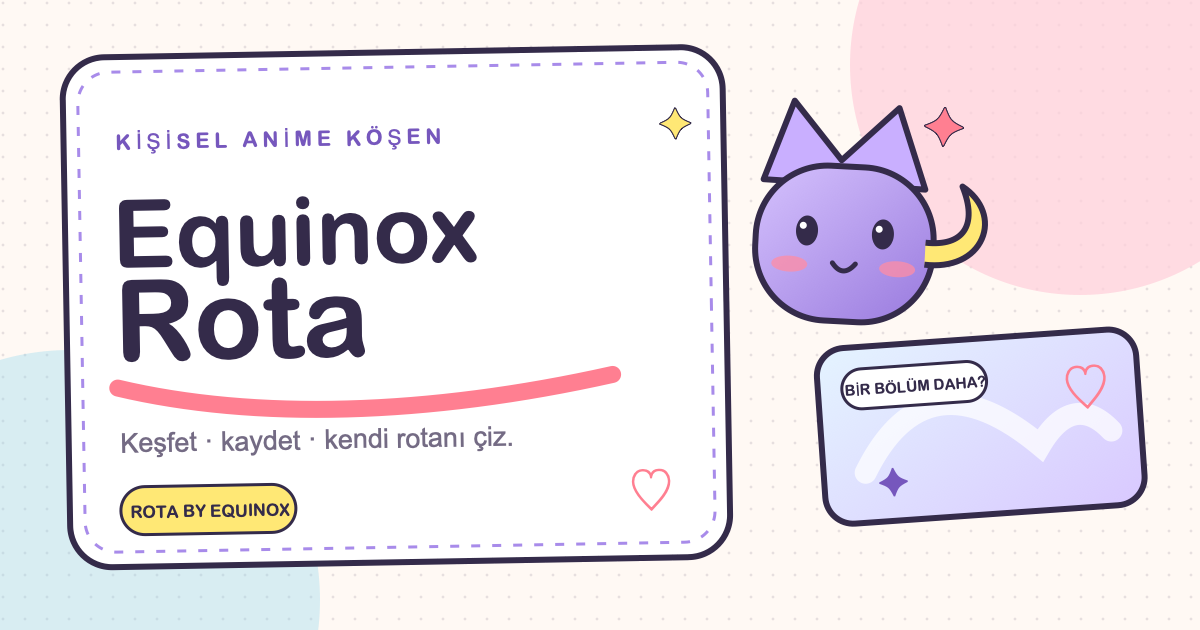
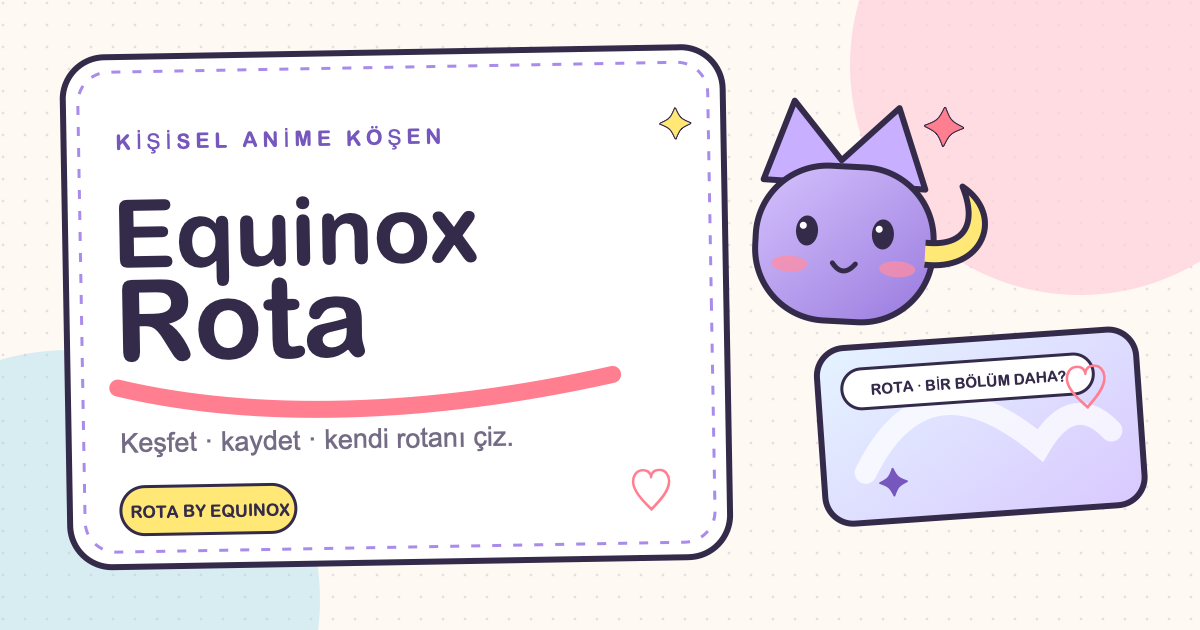
fix: unify Rota companion brand system

Changed region(s): [[0.7092, 0.5429, 0.925, 0.6635]]

diff --git a/src/styles/design-otaku.css b/src/styles/design-otaku.css
@@ -124,8 +124,14 @@ body.design-otaku .site-header {
   box-shadow: 0 8px 28px rgba(83, 65, 111, .06);
 }
 body.design-otaku .brand { position: relative; }
-body.design-otaku .brand svg { color: var(--lavender-deep); stroke-width: 2; }
-body.design-otaku .brand svg circle:last-child { fill: var(--coral); }
+body.design-otaku .brand .rota-mark { width: 43px; height: 43px; overflow: visible; }
+body.design-otaku .brand .rota-mark__tile { fill: var(--paper); stroke: var(--ink); stroke-width: 3px; }
+body.design-otaku .brand .rota-mark__ears { fill: #b79bf2; stroke: var(--ink); stroke-width: 2.5px; stroke-linejoin: round; }
+body.design-otaku .brand .rota-mark__face { fill: #a88bea; stroke: var(--ink); stroke-width: 2.5px; }
+body.design-otaku .brand .rota-mark__eye { fill: var(--ink); stroke: none; }
+body.design-otaku .brand .rota-mark__mouth { fill: none; stroke: var(--ink); stroke-width: 2px; stroke-linecap: round; }
+body.design-otaku .brand .rota-mark__star { fill: var(--sun); stroke: var(--ink); stroke-width: 2px; stroke-linejoin: round; }
+body.design-otaku .brand .rota-mark__blush { fill: var(--coral); stroke: none; opacity: .72; }
 body.design-otaku .brand > span {
   color: var(--ink);
   font-family: var(--display);
@@ -133,7 +139,6 @@ body.design-otaku .brand > span {
   letter-spacing: -.04em;
 }
 body.design-otaku .brand small { color: var(--lavender-deep); letter-spacing: .16em; }
-.brand__spark { margin: -23px 0 0 -5px; color: var(--coral); font-size: 10px; font-style: normal; animation: rota-twinkle 2.4s ease-in-out infinite; }
 body.design-otaku .site-header .desktop-nav {
   border: 1px solid var(--line);
   background: rgba(255, 255, 255, .74);
@@ -259,13 +264,16 @@ body.design-otaku .airing i { background: var(--mint); box-shadow: 0 0 0 4px rgb
 body.design-otaku .feature-score { color: var(--ink); background: var(--sun); border-radius: 999px; }
 body.design-otaku .home-hero .feature-score { margin-right: 54px; }
 
-/* Rota's original celestial companion */
-.rota-companion { position: absolute; z-index: 12; width: 126px; display: flex; flex-direction: column; align-items: center; filter: drop-shadow(0 10px 18px rgba(73,52,105,.14)); animation: rota-float 3.4s ease-in-out infinite; }
-.rota-companion__bubble { position: relative; z-index: 4; margin-bottom: 10px; padding: 8px 11px; border: 2px solid var(--ink); border-radius: 14px 14px 14px 5px; color: var(--ink); background: #fff; box-shadow: 3px 3px 0 var(--ink); font-size: 8px; font-weight: 900; white-space: nowrap; }
+/* Rota — Equinox Rota's celestial guide and brand face */
+.rota-companion { position: absolute; z-index: 12; width: 172px; display: flex; flex-direction: column; align-items: center; }
+.rota-companion__bubble { position: relative; z-index: 4; width: max-content; max-width: 178px; margin-bottom: 12px; padding: 9px 12px 10px; display: flex; flex-direction: column; gap: 2px; border: 2px solid var(--ink); border-radius: 16px 16px 16px 5px; color: var(--ink); background: #fff; box-shadow: 3px 3px 0 var(--ink); font-family: var(--sans); font-size: 12px; font-weight: 800; line-height: 1.32; letter-spacing: 0; text-align: left; white-space: normal; text-rendering: optimizeLegibility; -webkit-font-smoothing: antialiased; }
+.rota-companion__bubble strong { color: var(--lavender-deep); font-size: 9px; font-weight: 950; line-height: 1; letter-spacing: .12em; text-transform: uppercase; }
+.rota-companion__bubble span { display: block; }
 .rota-companion__bubble::after { content: ""; position: absolute; left: 15px; bottom: -8px; width: 12px; height: 12px; border-right: 2px solid var(--ink); border-bottom: 2px solid var(--ink); background: #fff; transform: rotate(45deg); }
-.rota-companion__body { position: relative; width: 76px; height: 64px; display: block; border: 2px solid var(--ink); border-radius: 48% 48% 42% 42%; background: linear-gradient(145deg,#c9afff,#9575dc); box-shadow: 4px 5px 0 var(--ink); }
+.rota-companion__body { position: relative; width: 76px; height: 64px; display: block; border: 2px solid var(--ink); border-radius: 48% 48% 42% 42%; background: linear-gradient(145deg,#c9afff,#9575dc); box-shadow: 4px 5px 0 var(--ink), 0 13px 20px rgba(73,52,105,.14); animation: rota-float 3.4s ease-in-out infinite; }
 .rota-companion__body::before { content: ""; position: absolute; z-index: -1; top: -21px; left: 4px; width: 64px; height: 34px; background: linear-gradient(135deg,#d8c5ff,#9b7ae1); clip-path: polygon(0 100%,14% 0,38% 76%,62% 76%,86% 0,100% 100%); }
 .rota-companion__body::after { content: ""; position: absolute; right: -20px; bottom: 2px; width: 31px; height: 31px; border: 8px solid var(--sun); border-top-color: transparent; border-left-color: transparent; border-radius: 50%; transform: rotate(-20deg); }
+.rota-companion__crest { position: absolute; z-index: 1; top: 4px; left: 34px; color: var(--sun); font-size: 9px; font-style: normal; text-shadow: 1px 1px 0 rgba(52,43,74,.45); }
 .rota-companion__eyes { position: absolute; top: 23px; left: 19px; width: 7px; height: 10px; border-radius: 50%; background: var(--ink); box-shadow: 29px 0 0 var(--ink); }
 .rota-companion__eyes::after { content: ""; position: absolute; top: 1px; left: 2px; width: 2px; height: 3px; border-radius: 50%; background: #fff; box-shadow: 29px 0 0 #fff; }
 .rota-companion__blush { position: absolute; top: 37px; left: 11px; width: 13px; height: 6px; border-radius: 50%; background: rgba(255,140,164,.66); box-shadow: 40px 0 0 rgba(255,140,164,.66); }
@@ -274,11 +282,11 @@ body.design-otaku .home-hero .feature-score { margin-right: 54px; }
 .rota-companion__body em { position: absolute; z-index: 2; font-style: normal; font-weight: 950; }
 .rota-companion--sleepy .rota-companion__eyes { height: 5px; border-bottom: 2px solid var(--ink); border-radius: 50%; background: transparent; box-shadow: 29px 0 0 -1px transparent; }
 .rota-companion--sleepy .rota-companion__eyes::after { width: 7px; height: 5px; border-bottom: 2px solid var(--ink); border-radius: 50%; background: transparent; box-shadow: 29px 0 0 -1px transparent; }
-.rota-companion--syncing .rota-companion__body { background: linear-gradient(145deg,#c8f3ff,#78c8e6); }
+.rota-companion--syncing .rota-companion__body { box-shadow: 4px 5px 0 var(--ink), 0 0 0 6px rgba(120,200,230,.2), 0 13px 20px rgba(73,52,105,.14); }
 .rota-companion__orbit { inset: -13px -15px -12px -15px; display: grid; place-items: end center; border: 2px dashed var(--lavender-deep); border-radius: 50%; color: var(--lavender-deep); font-size: 13px; animation: rota-orbit 1.05s linear infinite; }
-.rota-companion--celebrating .rota-companion__body { background: linear-gradient(145deg,#ffe8a1,#f5b764); animation: rota-companion-party .48s ease-in-out alternate infinite; }
+.rota-companion--celebrating .rota-companion__body { animation: rota-companion-party .48s ease-in-out alternate infinite; }
 .rota-companion__confetti { top: -25px; left: -17px; width: 110px; color: var(--coral); font-size: 17px; letter-spacing: .34em; transform: rotate(-7deg); animation: rota-confetti .62s ease-in-out alternate infinite; }
-.rota-companion--error .rota-companion__body { background: linear-gradient(145deg,#ffd7df,#e98da4); }
+.rota-companion--error .rota-companion__body { box-shadow: 4px 5px 0 var(--ink), 0 0 0 6px rgba(233,141,164,.18), 0 13px 20px rgba(73,52,105,.14); }
 .rota-companion--error .rota-companion__eyes { height: 2px; border-radius: 0; transform: rotate(9deg); }
 .rota-companion--error .rota-companion__eyes::after { display: none; }
 .rota-companion--error .rota-companion__mouth { width: 12px; height: 6px; border: 2px solid var(--ink); border-bottom: 0; border-radius: 9px 9px 0 0; transform: rotate(0); }
@@ -506,7 +514,7 @@ body.design-otaku .detail-art-wrap .detail-art {
 .detail-tape--top { top: -7px; right: 36px; transform: rotate(8deg); }
 .detail-tape--bottom { left: -9px; bottom: 21px; transform: rotate(-43deg); }
 .detail-sfx { position: absolute; z-index: 7; right: -38px; bottom: 72px; color: var(--coral); font-family: var(--display); font-size: 32px; font-style: normal; font-weight: 950; letter-spacing: -.06em; text-shadow: 2px 2px 0 #fff; transform: rotate(-9deg); }
-.rota-companion--detail { right: -77px; top: 74px; transform: scale(.9) rotate(7deg); }
+.rota-companion--detail { right: -77px; top: 74px; transform: rotate(7deg); }
 .detail-chapter { width: fit-content; margin-bottom: 18px; display: flex; align-items: stretch; border: 2px solid var(--ink); background: #fff; box-shadow: 4px 4px 0 var(--ink); transform: rotate(-.7deg); }
 .detail-chapter > * { min-height: 34px; padding: 0 10px; display: grid; place-items: center; font-style: normal; }
 .detail-chapter span { color: #fff; background: var(--lavender-deep); font-size: 7px; font-weight: 950; letter-spacing: .13em; }
@@ -566,11 +574,11 @@ body.design-otaku .list-shelf .my-list-card:nth-child(even) { transform: rotate(
 body.design-otaku .my-list-card.is-celebrating { z-index: 3; border-color: var(--lavender-deep); box-shadow: 7px 7px 0 var(--sun); animation: rota-card-celebrate .48s ease both; }
 .completion-burst { position: absolute; z-index: 20; inset: -14px -11px auto auto; min-width: 126px; padding: 11px 12px; display: flex; align-items: center; justify-content: center; gap: 5px; border: 2px solid var(--ink); color: var(--ink); background: var(--sun); box-shadow: 4px 4px 0 var(--ink); font-size: 8px; transform: rotate(4deg); animation: rota-burst .42s cubic-bezier(.2,.8,.2,1.2) both; }
 .completion-burst span, .completion-burst i { color: var(--coral); font-size: 17px; font-style: normal; }
-.rota-companion--celebration { top: -105px; right: 112px; transform: scale(.72) rotate(-5deg); animation-duration: 1.3s; }
+.rota-companion--celebration { top: -117px; right: 92px; transform: rotate(-5deg); }
 .rota-companion--celebration .rota-companion__bubble { background: #fff9dc; }
 .rota-companion--celebration .rota-companion__bubble::after { background: #fff9dc; }
 .companion-state, body.design-otaku .my-list-empty { position: relative; }
-.rota-companion--state { top: 50%; right: 11%; transform: translateY(-45%) rotate(5deg) scale(.82); }
+.rota-companion--state { top: 50%; right: 9%; transform: translateY(-45%) rotate(5deg); }
 .rota-companion--empty { top: 44px; right: 11%; transform: rotate(5deg); }
 
 @keyframes rota-card-celebrate { 0% { transform: scale(.97) rotate(-.6deg); } 60% { transform: scale(1.018) rotate(.4deg); } 100% { transform: scale(1); } }
@@ -596,9 +604,9 @@ body.design-otaku .account-hero::before { content: "♡"; position: absolute; ri
   box-shadow: 6px 6px 0 rgba(52,43,74,.15);
 }
 .account-profile-card { position: relative; background: linear-gradient(135deg, #fff 0 72%, #f1e8ff 72%); }
-.account-dashboard--signed-in .account-profile-card { padding-right: 145px; }
-.rota-companion--account-sync { top: 35px; right: 12px; transform: scale(.72) rotate(4deg); }
-.rota-companion--account-sync .rota-companion__bubble { max-width: 132px; white-space: normal; text-align: center; }
+.account-dashboard--signed-in .account-profile-card { padding-right: 188px; }
+.rota-companion--account-sync { top: 29px; right: 7px; transform: rotate(4deg); }
+.rota-companion--account-sync .rota-companion__bubble { max-width: 164px; text-align: center; }
 .account-card__topline { margin-bottom: 32px; display: flex; align-items: center; justify-content: space-between; color: var(--lavender-deep); font-size: 8px; font-weight: 900; letter-spacing: .13em; }
 .account-card__topline b { color: var(--coral); font-size: 24px; }
 .account-profile-card h2 { max-width: 700px; margin: 0; font-family: var(--display); font-size: clamp(38px,4vw,58px); line-height: 1; letter-spacing: -.045em; }
@@ -669,7 +677,7 @@ body.design-otaku .site-footer__meta small { color: var(--muted); }
 @media (max-width: 760px) {
   body.design-otaku { padding-bottom: 76px; }
   body.design-otaku .site-header { background: rgba(255,249,244,.92); }
-  .brand__spark { display: none; }
+  body.design-otaku .brand .rota-mark { width: 38px; height: 38px; }
   body.design-otaku .mobile-nav {
     border: 2px solid var(--ink);
     background: rgba(255,255,255,.93);
@@ -681,7 +689,7 @@ body.design-otaku .site-footer__meta small { color: var(--muted); }
   body.design-otaku .home-hero .feature-card { box-shadow: 6px 7px 0 var(--sakura), 8px 9px 0 var(--ink); }
   .hero-sticker--top { right: -7px; }
   body.design-otaku .home-hero .feature-score { margin-right: 60px; }
-  .rota-companion--hero { left: auto; right: -10px; bottom: -27px; transform: scale(.82) rotate(5deg); }
+  .rota-companion--hero { left: auto; right: -20px; bottom: -35px; transform: rotate(5deg); }
   .rota-companion--catalogue { top: 2px; right: -17px; transform: scale(.72) rotate(5deg); }
   .rota-companion--catalogue .rota-companion__bubble { display: none; }
   .hero-doodle--heart { right: -7px; }
@@ -726,9 +734,9 @@ body.design-otaku .site-footer__meta small { color: var(--muted); }
   .account-settings-card,
   .account-shelf-card { padding: 23px 19px; border-radius: 18px; box-shadow: 4px 4px 0 rgba(52,43,74,.14); }
   .account-profile-card { background: #fff; }
-  .account-dashboard--signed-in .account-profile-card { padding-right: 19px; padding-top: 104px; }
-  .rota-companion--account-sync { top: 3px; right: 1px; transform: scale(.62) rotate(4deg); }
-  .rota-companion--account-sync .rota-companion__bubble { max-width: 118px; }
+  .account-dashboard--signed-in .account-profile-card { padding-right: 19px; padding-top: 148px; }
+  .rota-companion--account-sync { top: 12px; right: 2px; transform: rotate(3deg); }
+  .rota-companion--account-sync .rota-companion__bubble { max-width: 158px; }
   .account-profile-card h2 { font-size: 36px; }
   .account-benefits { margin-top: 22px; }
   .account-shelf-card { min-height: 340px; }
@@ -745,5 +753,5 @@ body.design-otaku .site-footer__meta small { color: var(--muted); }
 @media (prefers-reduced-motion: reduce) {
   ::view-transition-old(root), ::view-transition-new(root) { animation-duration: .01ms !important; }
   .page-transition-wink { display: none; }
-  .hero-sticker, .hero-doodle, .account-hero__badge, .rota-companion, .rota-companion__body, .rota-companion__body em, .brand__spark, .completion-burst, .my-list-card.is-celebrating { animation: none !important; }
+  .hero-sticker, .hero-doodle, .account-hero__badge, .rota-companion, .rota-companion__body, .rota-companion__body em, .completion-burst, .my-list-card.is-celebrating { animation: none !important; }
 }

diff --git a/src/components/RotaCompanion.tsx b/src/components/RotaCompanion.tsx
@@ -14,12 +14,16 @@ export default function RotaCompanion({
       className={`rota-companion rota-companion--${mood} ${className}`.trim()}
       aria-hidden="true"
     >
-      <span className="rota-companion__bubble">{message}</span>
+      <span className="rota-companion__bubble">
+        <strong>Rota</strong>
+        <span>{message}</span>
+      </span>
       <span className="rota-companion__body">
+        <i className="rota-companion__crest">✦</i>
         <i className="rota-companion__eyes" />
         <i className="rota-companion__blush" />
         <i className="rota-companion__mouth" />
-        <b>✦</b>
+        <b aria-hidden="true">✦</b>
         {mood === "syncing" && <em className="rota-companion__orbit">↻</em>}
         {mood === "celebrating" && <em className="rota-companion__confetti">✦♡✦</em>}
         {mood === "error" && <em className="rota-companion__bandage">×</em>}

diff --git a/docs/DESIGN_DIRECTION.md b/docs/DESIGN_DIRECTION.md
@@ -25,7 +25,7 @@ Tasarımın başarı testi şudur:
 - Kawaii seviyesi bilinçli biçimde yüksektir; sevimlilik yalnız küçük ikonlara değil kompozisyonun kendisine taşınır.
 - Klasik web sitesi kalıpları zorunlu değildir. Kontrollü asimetri, üst üste binen kartlar, manga efektleri, sticker katmanları ve alışılmadık bölüm geçişleri teşvik edilir.
 - Her ana ekranda kullanıcıya “bunu başka bir sitede görmedim” dedirtecek en az bir karakterli an bulunmalıdır.
-- Rota'nın özgün göksel yoldaşı arayüzde rehber ve duygu işareti olarak kullanılabilir; maskot işlevin veya anime içeriğinin önüne geçmez.
+- **Rota**, ürünün göksel yoldaşı ve marka yüzüdür. Arayüzde rehber ve duygu işareti olarak kullanılır; işlevin veya anime içeriğinin önüne geçmez.
 - Hareket kısa, neşeli ve amaçlıdır. `prefers-reduced-motion` her zaman korunur.
 - Yüksek ifade, düşük kullanılabilirlik bahanesi değildir: metin kontrastı, 44 piksel dokunma hedefleri ve hızlı tarama korunur.
 
@@ -111,8 +111,13 @@ Masaüstünde üst gezinme, mobilde sabit ve erişilebilir alt gezinme kullanıl
 
 ## Yaşayan Rota sistemi
 
+- Göksel yoldaşın adı **Rota**'dır. Kullanıcı kendi anime rotasını çizerken Rota ona eşlik eder; ürün adı, karakter ve anlatı bu ortak paydada buluşur.
+- Rota'nın lavanta gövdesi, taç-kulak silueti, güneş sarısı hilal kuyruğu, mürekkep konturu ve yıldız izi sabittir. Durumlar karakterin rengini veya anatomisini değiştirmez; yalnız mimik, hareket ve geçici aksesuar ekler.
+- Header işareti, favicon ve paylaşım kimliği Rota'nın aynı yüz anatomisinden türetilir. Yeni marka ikonları ayrı bir sembol icat etmez.
 - Göksel yoldaşın temel hâlleri `happy`, `curious`, `sleepy`, `syncing`, `celebrating` ve `error` olarak tanımlıdır.
 - Yoldaş; boş raf, yükleme, hata, hesap senkronizasyonu ve anime tamamlama anlarında bağlama göre tepki verir. Durum iletisini destekler, tek başına durumun tek göstergesi olmaz.
+- Konuşma balonu karakter animasyonundan bağımsız ve keskin kalır; gövdeyle birlikte ölçeklenmez. Balon metni mobil ve masaüstünde en az 12 piksel, yüksek kontrastlı ve kısa olmalıdır.
+- Rota kendini nadiren tanıtır; balondaki küçük `Rota` imzası konuşanın kimliğini kurar. Metin samimi Türkçedir, yapay “senpai/kawaii” diline kaçmaz.
 - Sayfa geçişleri kısa bir göksel manga işareti ve yumuşak içerik geçişi kullanır. Desteklenmeyen tarayıcılarda normal gezinme korunur.
 - Mevsim katmanı yalnız vurgu rengi ve arka plan ışıltısını değiştirir; içerik düzeni veya okunabilirlik mevsime göre değişmez.
 - `prefers-reduced-motion` açıkken yoldaş, kutlama ve sayfa geçişi animasyonları durur.
@@ -121,7 +126,7 @@ Masaüstünde üst gezinme, mobilde sabit ve erişilebilir alt gezinme kullanıl
 
 - Varsayılan Open Graph/Twitter kartı `public/social/equinox-rota-share.png` dosyasıdır; düzenlenebilir kaynak SVG aynı klasörde tutulur.
 - Tüm sayfalar kanonik URL, Türkçe açıklama, 1200×630 paylaşım görseli ve erişilebilir görsel açıklaması üretir.
-- Paylaşım kartı göksel yoldaşı, manga panelini ve açık pastel kimliği birlikte taşır; anime kapağı kullanım hakkı doğrulanmadan harici görsel kullanmaz.
+- Paylaşım kartı Rota'yı, manga panelini ve açık pastel kimliği birlikte taşır; anime kapağı kullanım hakkı doğrulanmadan harici görsel kullanmaz.
 - Yeni özel paylaşım görselleri `BaseLayout` üzerindeki `image`, `imageAlt` ve `type` alanlarıyla tanımlanır.
 
 Bu belge, tüm yeni arayüz kararlarının kanonik kaynağıdır. Ürün aşamaları `ROADMAP.md`, hesap güvenliği ise `docs/ACCOUNT_ARCHITECTURE.md` tarafından yönetilir.

diff --git a/ROADMAP.md b/ROADMAP.md
@@ -102,7 +102,7 @@ Resend Free'nin günlük 100 e-posta sınırı nedeniyle her girişte kota tüke
 
 Aşamanın kapanması için Google OAuth ile iki fiziksel cihazda çevrimdışı düzenleme ve silme testi gerekiyor. Production'da ikinci eşitlemenin sıfır kayıt göndermesi doğrulandı; kısmi red bildiriminin gerçek oturumdaki görünümüne ayrıca bakılacak.
 
-Ürün deneyimi baştan aşağı **Soft Celestial Otaku** sistemine geçirildi: açık manga editoryali, kontrollü asimetri, koleksiyon rafları, otaku köşesi hesap ekranı ve yaşayan göksel yoldaş eklendi. Ana sayfada arama ile kişisel dönüş ilk görüş alanında; katalog Türkçe filtrelerle, anime detayı manga açılımıyla, Listem ise durumlara ayrılan raflarla çalışır. Mevsimsel renk katmanı, erişilebilir mikro animasyonlar, sayfa geçişleri, favicon ve paylaşım kartı aynı marka dilini taşır. Kanonik tasarım ilkeleri `docs/DESIGN_DIRECTION.md` içindedir.
+Ürün deneyimi baştan aşağı **Soft Celestial Otaku** sistemine geçirildi: açık manga editoryali, kontrollü asimetri, koleksiyon rafları, otaku köşesi hesap ekranı ve yaşayan göksel yoldaş eklendi. Yoldaşın adı **Rota** olarak ürün anlatısına bağlandı; sabit yüz anatomisi site ikonu, favicon ve paylaşım kimliğinin ortak marka paydasıdır. Ana sayfada arama ile kişisel dönüş ilk görüş alanında; katalog Türkçe filtrelerle, anime detayı manga açılımıyla, Listem ise durumlara ayrılan raflarla çalışır. Mevsimsel renk katmanı, erişilebilir mikro animasyonlar ve sayfa geçişleri aynı marka dilini taşır. Kanonik tasarım ilkeleri `docs/DESIGN_DIRECTION.md` içindedir.
 
 Public yayın modeli de kilitlendi: GitHub deposu public olacak; uygulama kodu AGPL-3.0-only altında, özgün editoryal içerik ile Rota/Equinox marka katmanı korumalı kalacak ve katalog verisinin ODbL/DbCL koşulları ayrı sürdürülecek.
 

diff --git a/README.md b/README.md
@@ -25,9 +25,9 @@ Canlı soft alpha: **[anime.sametbasbug.dev](https://anime.sametbasbug.dev/)**
 - Bölüm ilerlemesi, 1–10 kişisel puan ve 600 karakterlik kişisel not
 - Durumlara ayrılan koleksiyon rafları, sayaçlar, filtreler ve hızlı ilerleme kontrolleri içeren `/listem` ekranı
 - Manga açılımı ritmine sahip anime detayları ve otaku köşesi olarak tasarlanan hesap ekranı
-- Boş, yükleme, hata, senkronizasyon ve kutlama hâlleriyle yaşayan özgün göksel yoldaş
+- Boş, yükleme, hata, senkronizasyon ve kutlama hâlleriyle yaşayan marka yüzü ve göksel yoldaş **Rota**
 - Mevsimsel renk katmanı, erişilebilir mikro animasyonlar ve karakterli sayfa geçişleri
-- Özgün favicon ile 1200×630 Open Graph/Twitter paylaşım kartı
+- Rota'nın ortak yüz anatomisini kullanan site ikonu, favicon ve 1200×630 Open Graph/Twitter paylaşım kartı
 - Sekiz popüler yapım için özgün, spoiler kontrollü Türkçe editoryal profil
 - Taslak, editoryal kontrol ve yayımlanmış durumlarını ayıran doğrulamalı içerik akışı
 - İsteğe bağlı, doğrudan Google Identity Services ID-token girişi; profil ve liste görünürlüğü ekranı
